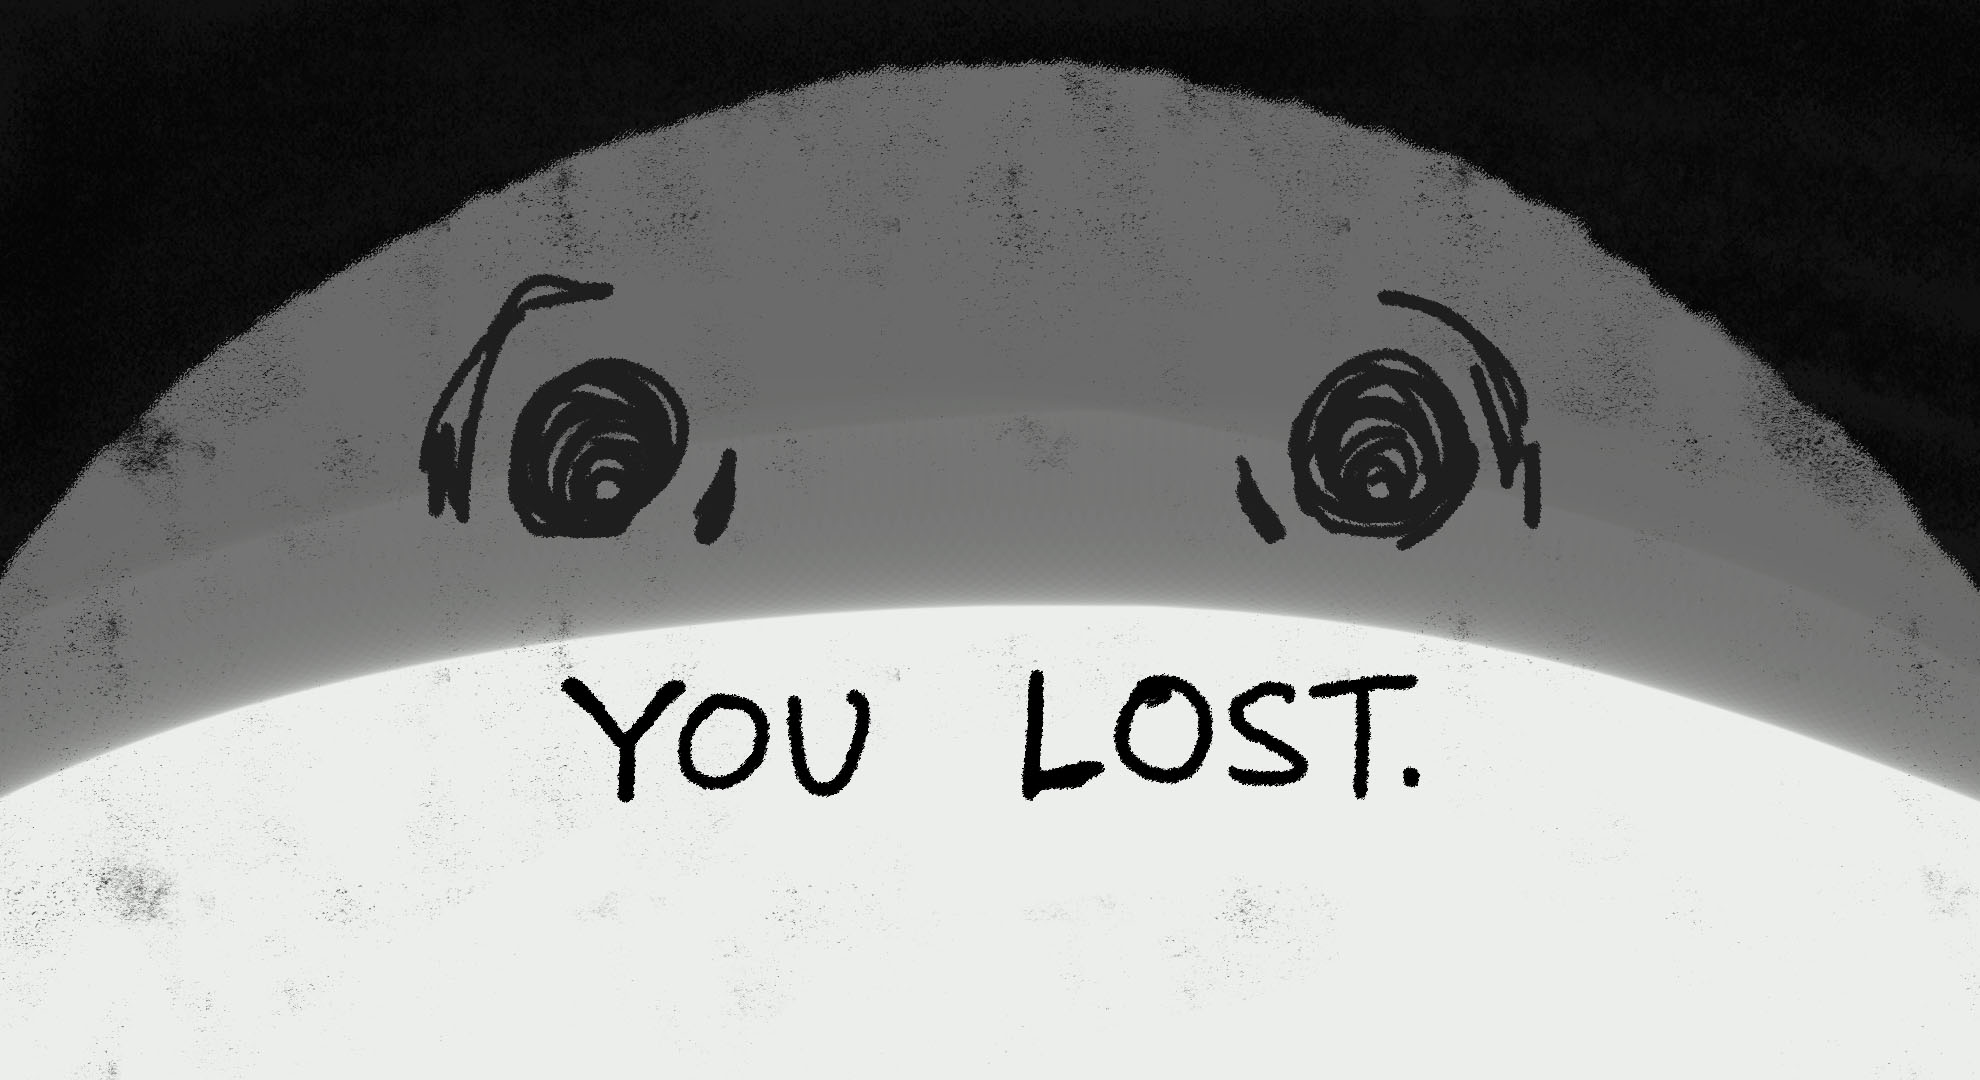
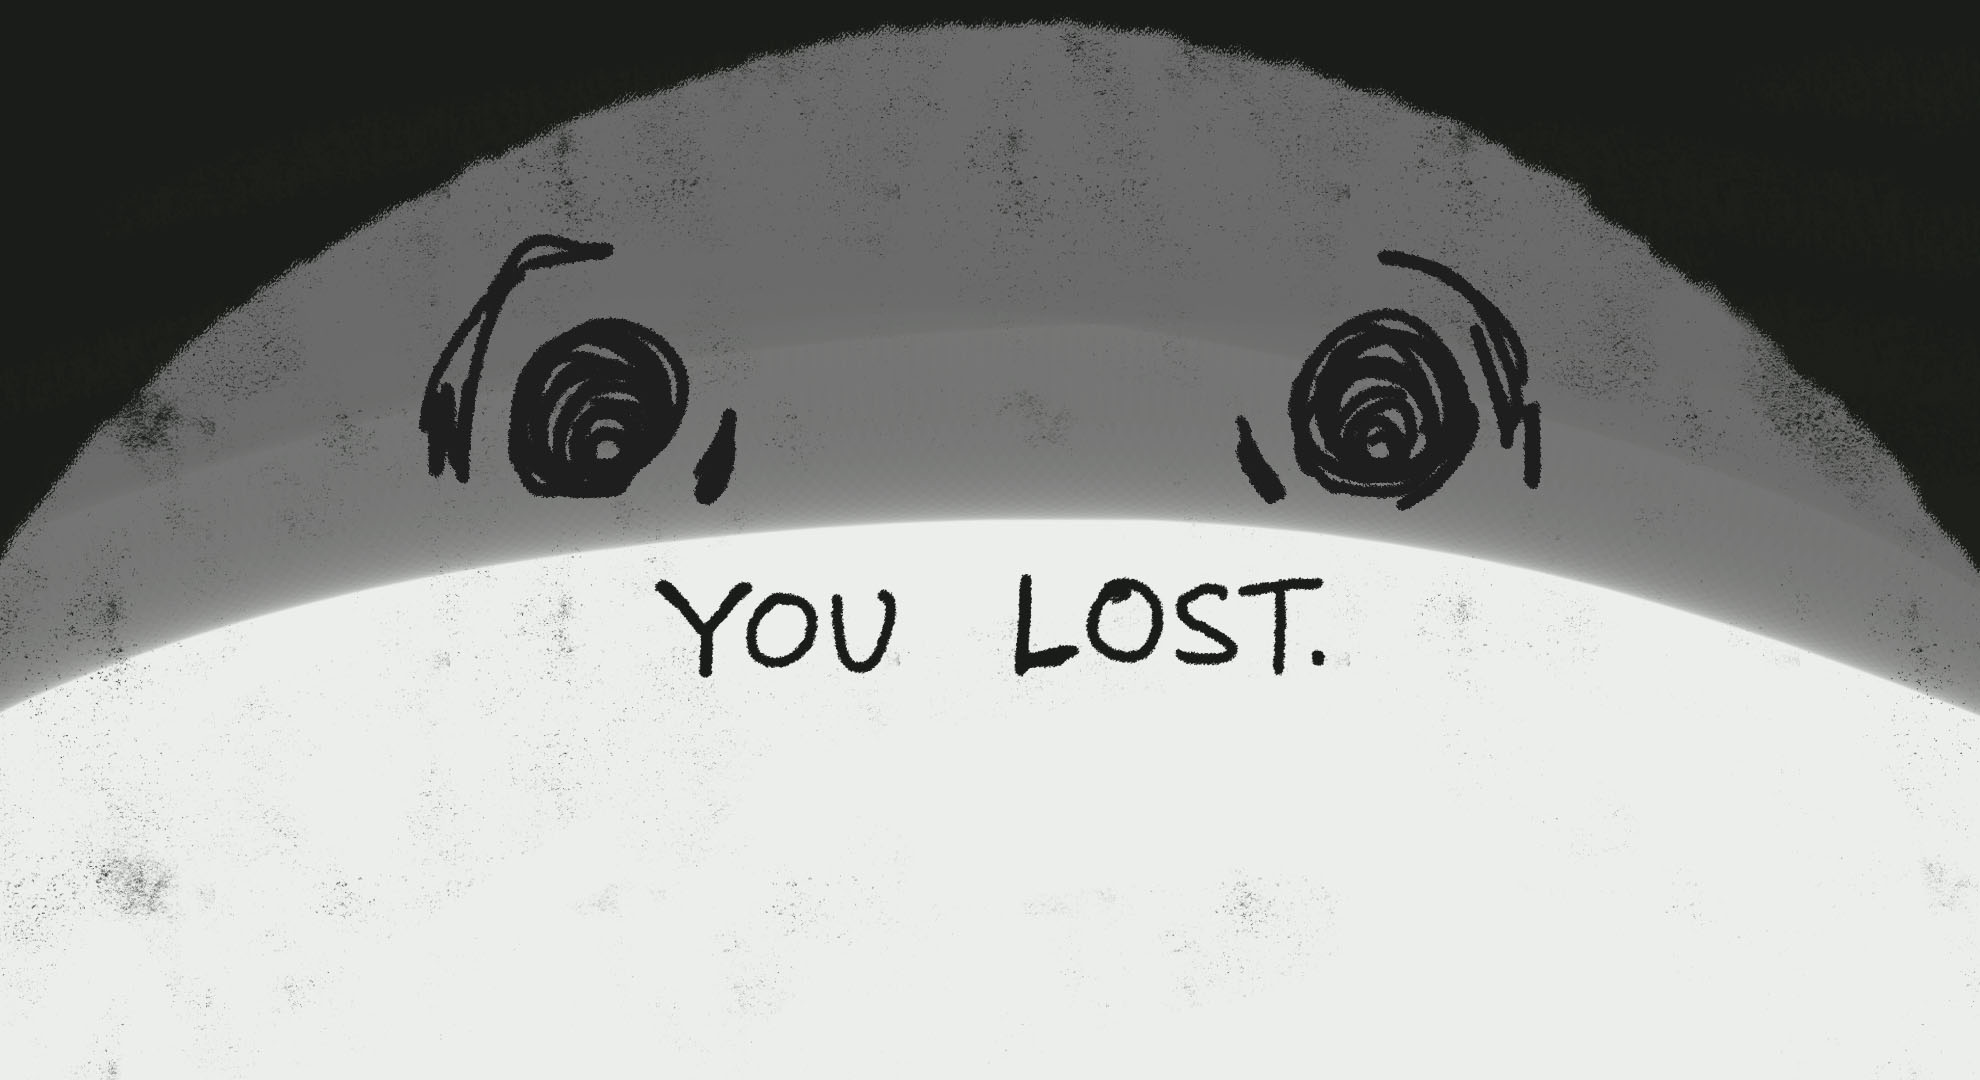
worked on css

diff --git a/hangman V2 copy/styles.css b/hangman V2 copy/styles.css
@@ -19,6 +19,8 @@
   --offblack: #222831;
   --grey: #393e46;
   --iconHover: #e7e7e7;
+  --wrongGuess: #da8181;
+  --correctGuess: #99d880;
 }
 
 
@@ -37,6 +39,7 @@
     overflow: hidden;
     display: flex;
     justify-content: center;
+    align-items: center;
 }
 
 .homeContainer {
@@ -46,12 +49,13 @@
 
 .containerItems {
     width: 95%;
+    height: 90%;
     border: 2px solid red;
-    margin-top: 20px;
+    display: flex;
+    flex-direction: column;
 }
 
 .icons {
-    height: 50px;
     border: 2px solid rgb(23, 78, 12);
     display: flex;
 }
@@ -61,6 +65,7 @@
     border: none;
     display: flex;
     width: 60px;
+    height: 50px;
 }
 
 .icon img {
@@ -74,11 +79,12 @@
 
 #play {
     margin-top: 250px;
-    margin-right: 200px;
+    width: fit-content;
+    margin-left: 600px;
     float: right;
     font-size: 64px;
     background: transparent;
-    border: none;
+    border: 2px solid black;
     color: rgb(230, 230, 230);
 }
 
@@ -108,6 +114,101 @@
     background-size: cover;
 }
 
+.wordText {
+    margin-left: 375px;
+    border: 2px solid orange;
+    width: 550px;
+    display: flex;
+    justify-content: center;
+}
+
 #word {
     color: #e7e7e7;
+    font-size: 24px;
+}
+
+.alphabet {
+    margin-top: 160px;
+    margin-left: 450px;
+    border: 2px solid yellow;
+    width: 475px;
+    float: right;
+}
+
+.alphabetItems {
+    display: grid;
+    grid-template-columns: repeat(9, 1fr);
+    /*
+    grid-auto-flow: dense;
+    direction: rtl;
+    */
+    gap: 5px;
+}
+
+.alphabetLetter {
+    aspect-ratio: 1/1;
+    border: none;
+    background-color: transparent;
+    color: white;
+    font-size: 24px;
+}
+
+.active:hover {
+    opacity: 50%;
+}
+
+.hearts {
+    border: 2px solid purple;
+    width: 400x;
+    display: flex;
+    justify-content: flex-end;
+    gap: 20px;
+    margin-top: 40px;
+}
+
+.heart {
+    height: 35px;
+}
+
+
+.gameOverContainer  {
+    background: url(visualRecources/gameOver.jpg);
+    background-size: cover;
+}
+
+.gameOverContainer .containerItems {
+    align-items: center;
+    text-align: center;
+}
+
+.gameOver {
+    margin-top: 350px;
+}
+
+#playAgain {
+    font-size: 48px;
+    background: transparent;
+    border: 2px solid black;
+    color: rgb(0, 0, 0);
+}
+
+#playAgain:after {
+    content: '';
+    height: 10px;
+    width: 0%;
+    background: url(visualRecources/underlineDark.png);
+    background-size: cover;
+    border-radius: 10px;
+    display: block;
+    transition: .2s ease-in-out;
+}
+
+#playAgain:hover::after {
+    content:"";
+    height: 10px;
+    width: 100%;
+    background: url(visualRecources/underlineDark.png);
+    background-size: cover;
+    border-radius: 10px;
+    display: block;
 }

diff --git a/hangman V2 copy/script.js b/hangman V2 copy/script.js
@@ -101,7 +101,7 @@ function generateAlphabetButtons() {
         alphabetButton.appendChild(node);
         alphabetButton.value = currentLetter;
         alphabetButton.id = currentLetter;
-        alphabetButton.className = "alphabetLetter";
+        alphabetButton.className = "alphabetLetter active";
 
         //appending the button to the html 
         const element = document.getElementById("alphabetItems");
@@ -165,6 +165,8 @@ function playGame()
         for (let i = 0; i < alphabetButtons.length; i++)
         {
             alphabetButtons[i].disabled = false;
+            alphabetButtons[i].className = "alphabetLetter active";
+            alphabetButtons[i].style.color = "white";
         }
 
         //resetting all of the hearts
@@ -177,6 +179,7 @@ function playGame()
         console.log(chosenTheme);
         hideContainers();
         showContainer(".playContainer");
+        switchExpression();
 
         /*
         var positionChosen = false;
@@ -282,12 +285,15 @@ function guessedWord() {
 }
 
 function guessLetter(letter) {
+    var currentLetterButton = document.getElementById(letter);
+
     if (word.toUpperCase().includes(letter) && !guessedLetters.includes(letter))
     {
         console.log("I ", letter, " am included !");
         guessedLetters.push(letter);
         uniqueLetterCounter++;
         console.log(uniqueLetterCounter);
+        currentLetterButton.style.color = "var(--correctGuess)";
         if (uniqueLetterCounter >= numUniqueLetters)
         {
             winState();
@@ -304,16 +310,27 @@ function guessLetter(letter) {
         incorrectGuesses++;
         console.log(incorrectGuesses);
         removeHeart();
+        switchExpression();
         checkMaxGuesses();
+        currentLetterButton.style.color = "var(--wrongGuess)";
+        
     }
     //disabling the button that was just clicked
-    document.getElementById(letter).disabled = true;
+    currentLetterButton.disabled = true;
+    currentLetterButton.className = "alphabetLetter inactive";
+    
 }
 
 function removeHeart() 
 {
     console.log("hello noob");
     document.getElementById("heart" + incorrectGuesses).src = "visualRecources/unfilledHeart.png";
+}
+
+function switchExpression()
+{
+    document.getElementsByClassName("playContainer")[0].style.background = "url(visualRecources/playPage"+(incorrectGuesses+1)+".jpg)";
+    document.getElementsByClassName("playContainer")[0].style.backgroundSize = "cover";
 }
 
 function checkMaxGuesses()

diff --git a/hangman V2 copy/index.html b/hangman V2 copy/index.html
@@ -59,11 +59,14 @@
                     <button class="icon musicIcon"><img class="musicIcon" src="visualRecources/musicIcon.png" alt="icon of a music symbol"></button>
                     
                 </div>
+                
+                <!--
                 <div class="hintText">
                     <p id="hint">
-                        <!--Hint from API data-->
+                        Hint from API data
                     </p>
                 </div>
+            -->
                 <div class="wordText">
                     <p id="word">The guessed word goes here</p>
                 </div>
@@ -85,8 +88,7 @@
         <section class="container gameOverContainer">
             <div class="containerItems">
                 <div class="gameOver">
-                    <h1>Game Over</h1>
-                    <h4>The word was 
+                    <h4>Correct Word: 
                         <span id="wordReveal">
                             <!--get word from API call-->
                         </span>.
